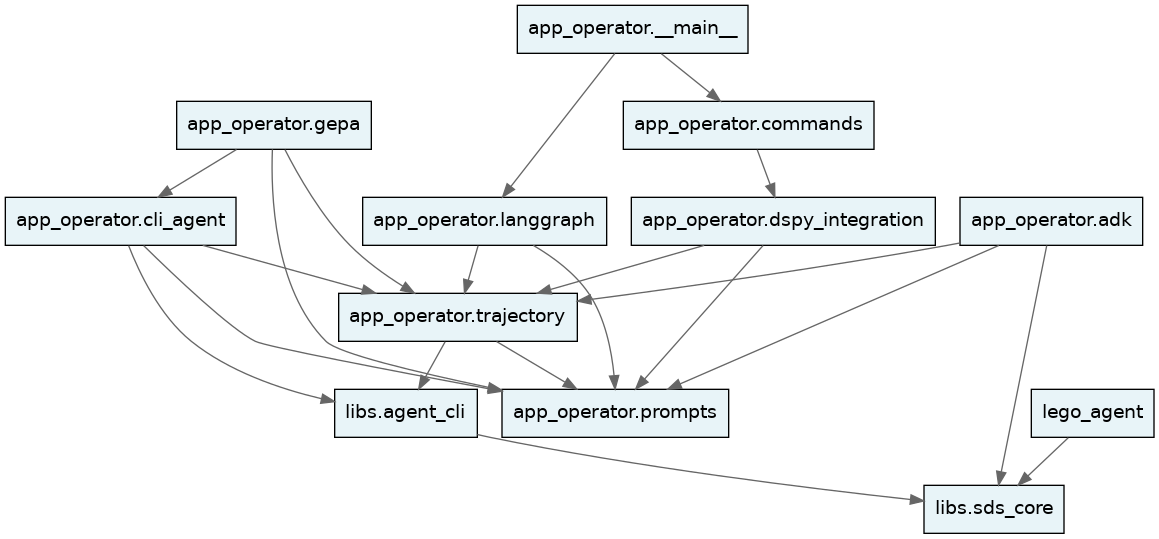
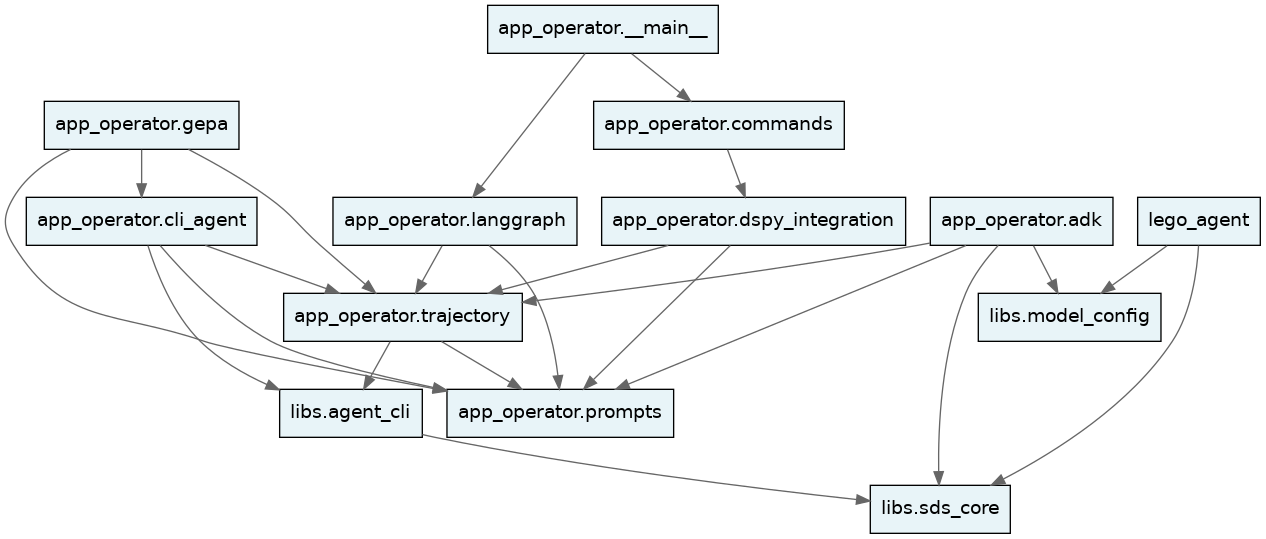
fix: resolve remaining CI failures (static_analysis + tach_graph_freshness)
- Move Agent/RunContext imports into TYPE_CHECKING blocks in all four
  pydantic_ai agent files (analyze, health, repair, script)
- Regenerate docs/assets/tach_module_graph.{dot,png} after tach.toml changes

diff --git a/app_operator/pydantic_ai/agents/health.py b/app_operator/pydantic_ai/agents/health.py
@@ -5,7 +5,8 @@ from __future__ import annotations
 import time
 from typing import TYPE_CHECKING
 
-from pydantic_ai import Agent, RunContext
+if TYPE_CHECKING:
+    from pydantic_ai import Agent, RunContext
 
 from app_operator.constants import DEPLOYMENT_PROGRESS_FILENAME
 from app_operator.pydantic_ai._base_agent import OperatorAgent

diff --git a/app_operator/pydantic_ai/agents/repair.py b/app_operator/pydantic_ai/agents/repair.py
@@ -4,7 +4,8 @@ from __future__ import annotations
 
 from typing import TYPE_CHECKING
 
-from pydantic_ai import Agent, RunContext
+if TYPE_CHECKING:
+    from pydantic_ai import Agent, RunContext
 
 from app_operator.constants import DEPLOYMENT_PROGRESS_FILENAME
 from app_operator.prompts import create_fix_prompt, prepare_error_context

diff --git a/app_operator/pydantic_ai/agents/analyze.py b/app_operator/pydantic_ai/agents/analyze.py
@@ -4,7 +4,8 @@ from __future__ import annotations
 
 from typing import TYPE_CHECKING
 
-from pydantic_ai import Agent, RunContext
+if TYPE_CHECKING:
+    from pydantic_ai import Agent, RunContext
 
 from app_operator.guardrails import ArtifactGuardrail
 from app_operator.logger import logger

diff --git a/app_operator/pydantic_ai/agents/script.py b/app_operator/pydantic_ai/agents/script.py
@@ -4,7 +4,8 @@ from __future__ import annotations
 
 from typing import TYPE_CHECKING
 
-from pydantic_ai import Agent, RunContext
+if TYPE_CHECKING:
+    from pydantic_ai import Agent, RunContext
 
 from app_operator.guardrails import ArtifactGuardrail
 from app_operator.logger import logger
